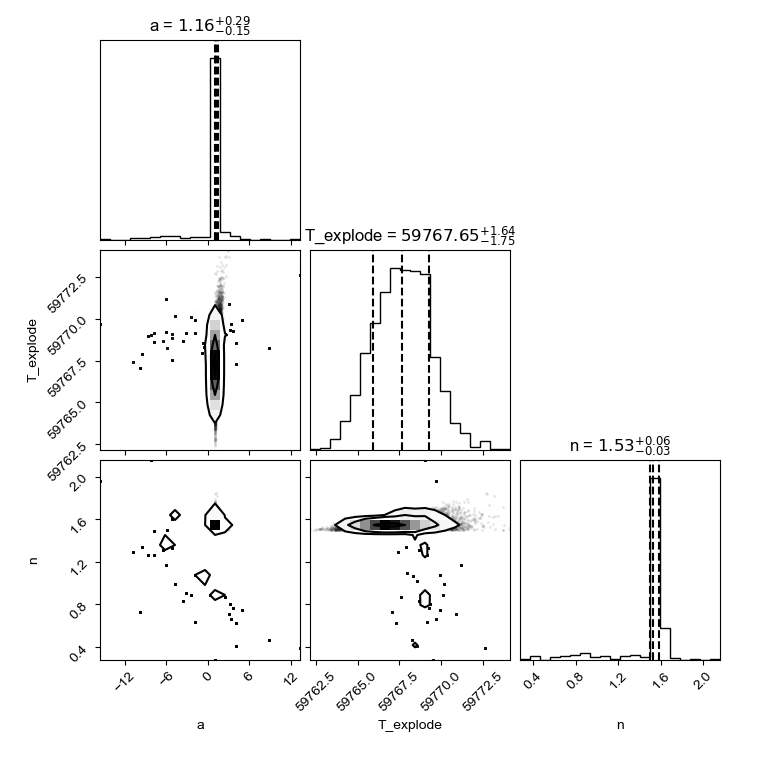
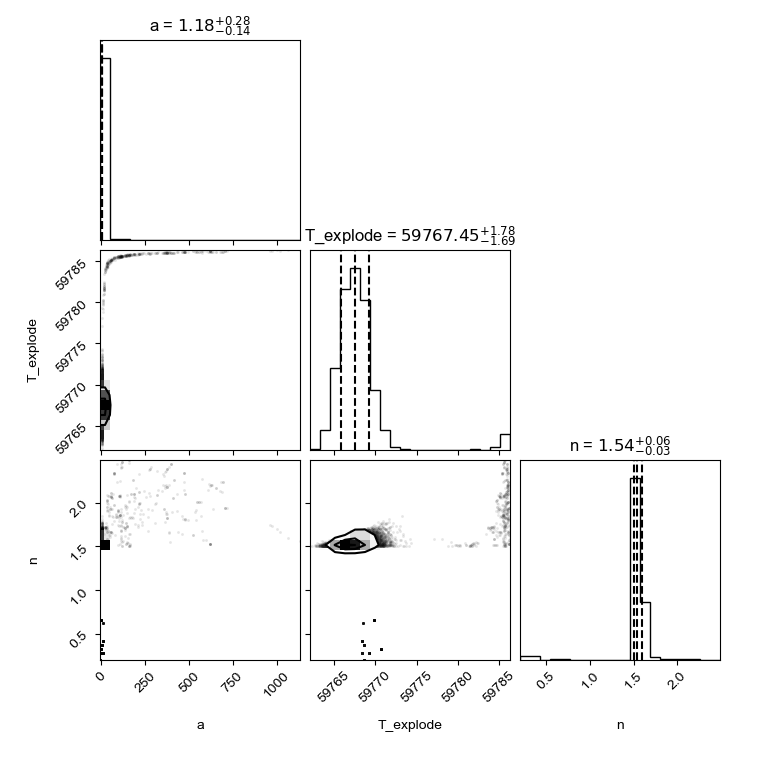
It works now

diff --git a/SNIPER.py b/SNIPER.py
@@ -49,10 +49,10 @@ config_cleaned_lc_directory = "/Users/thomasmoore/Desktop/SNIPER_DEV/ATLAS_TDEs/
 MJD_minus = 800
 MJD_plus = 800
 nwalkers_bazin = 100
-nsteps_bazin = 5000
+nsteps_bazin = 10000
 
 nwalkers_fireball = 100
-nsteps_fireball = 10000
+nsteps_fireball = 30000
 
 progress = True
 plot = True
@@ -878,6 +878,10 @@ for object in tqdm(IAU_list["IAU_NAME"], leave=False):
     )
 
     A, B, T_rise, T_fall, t0 = bazin_results[2]
+    baz_max = np.nanmean(bazin_results[6])
+    print("baz_max =", baz_max)
+    t_max_bazin = baz_tmax(t0, T_rise, T_fall)
+    print("max time =", t_max_bazin)
 
     x_range = np.linspace(np.min(x), np.max(x), 200)
     ax.plot(
@@ -889,24 +893,27 @@ for object in tqdm(IAU_list["IAU_NAME"], leave=False):
     )
 
     # setting max and min for outputplot
-    baz_max = np.nanmean(bazin_results[6])
-    print("baz_max =", baz_max)
-    t_min_plot, t_max_plot = [], []
+    t_min_plot, t_max_plot = None, None
     for x in x_range:
-        if t_min_plot == []:
+        if t_min_plot == None:
             if bazin(x, A, B, T_rise, T_fall, t0) > 0.05 * baz_max:
                 t_min_plot = x
-        if t_max_plot == [] & t_min_plot is not None:
+                print("setting t min", t_min_plot)
+        if t_max_plot == None and (x > t_max_bazin):
             if bazin(x, A, B, T_rise, T_fall, t0) < 0.05 * baz_max:
                 t_max_plot = x
+                print("setting t max", t_max_plot)
 
-    if t_max_plot == []:
+    if t_max_plot == None:
         t_max_plot = np.max(x)
 
-    print("tmax tmin", t_min_plot, t_max_plot)
+    print("tmin tmax", t_min_plot, t_max_plot)
+    ax.set_ylabel(r" Flux Density [$\rm \mu Jy$]")
+    ax.set_xlabel(r"time [mjd]")
 
-    ax.set_xlim(t_min_plot, t_max_plot)
-    ax.set_ylim(-10, 1.05 * baz_max)
+    ax.legend()
+    ax.set_xlim(t_min_plot - 50, t_max_plot + 50)
+    ax.set_ylim(-10, 1.2 * baz_max)
 
     # removing lightucurve after max light
 
@@ -915,7 +922,7 @@ for object in tqdm(IAU_list["IAU_NAME"], leave=False):
     ]
 
     lightcurve_data = lightcurve_data.loc[
-        (lightcurve_data["MJD"].astype("float64") >= baz_tmax(t0, T_rise, T_fall) - 200)
+        (lightcurve_data["MJD"].astype("float64") >= t_min_plot - 50)
     ]
     print(f"t_max = {bazin_results[0]}")
 
@@ -925,7 +932,7 @@ for object in tqdm(IAU_list["IAU_NAME"], leave=False):
         lightcurve_data["duJy"].astype(float),
     )
     def_global(x, y, yerr)
-    first_guess = np.nanmean(bazin_results[0]) - 40
+    first_guess = np.nanmean(bazin_results[0]) - 20
 
     fireball_results = fit_fireball(
         priors=[np.max(y), first_guess, 2],
